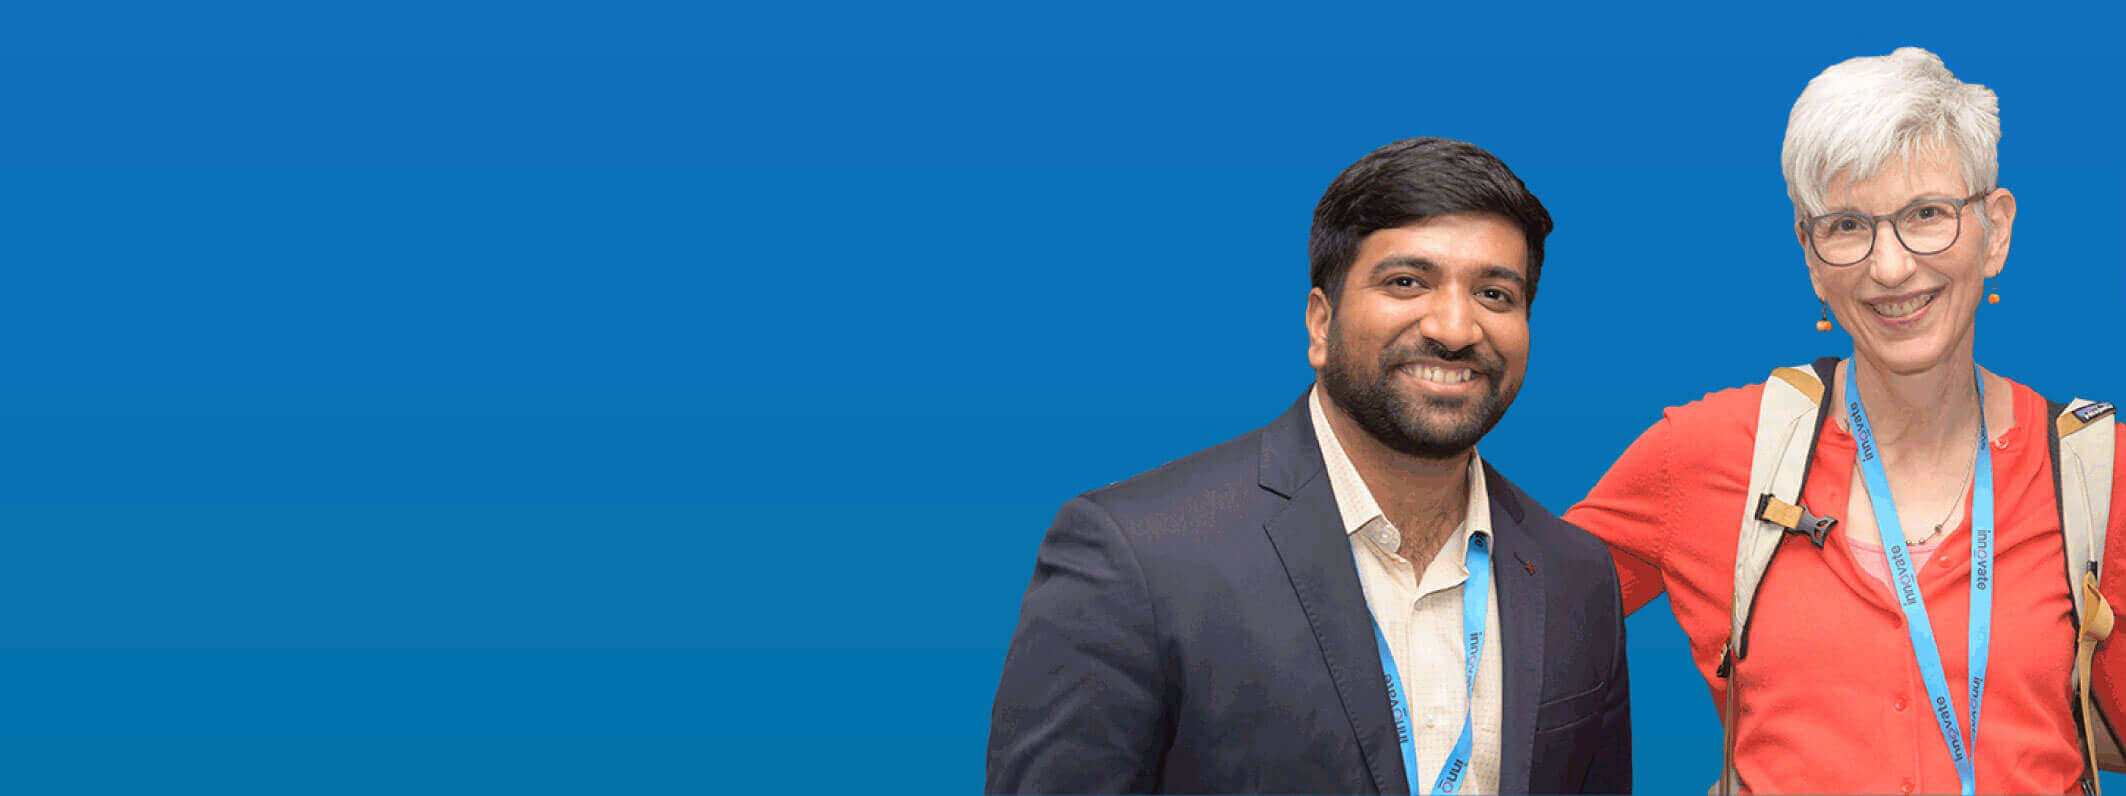
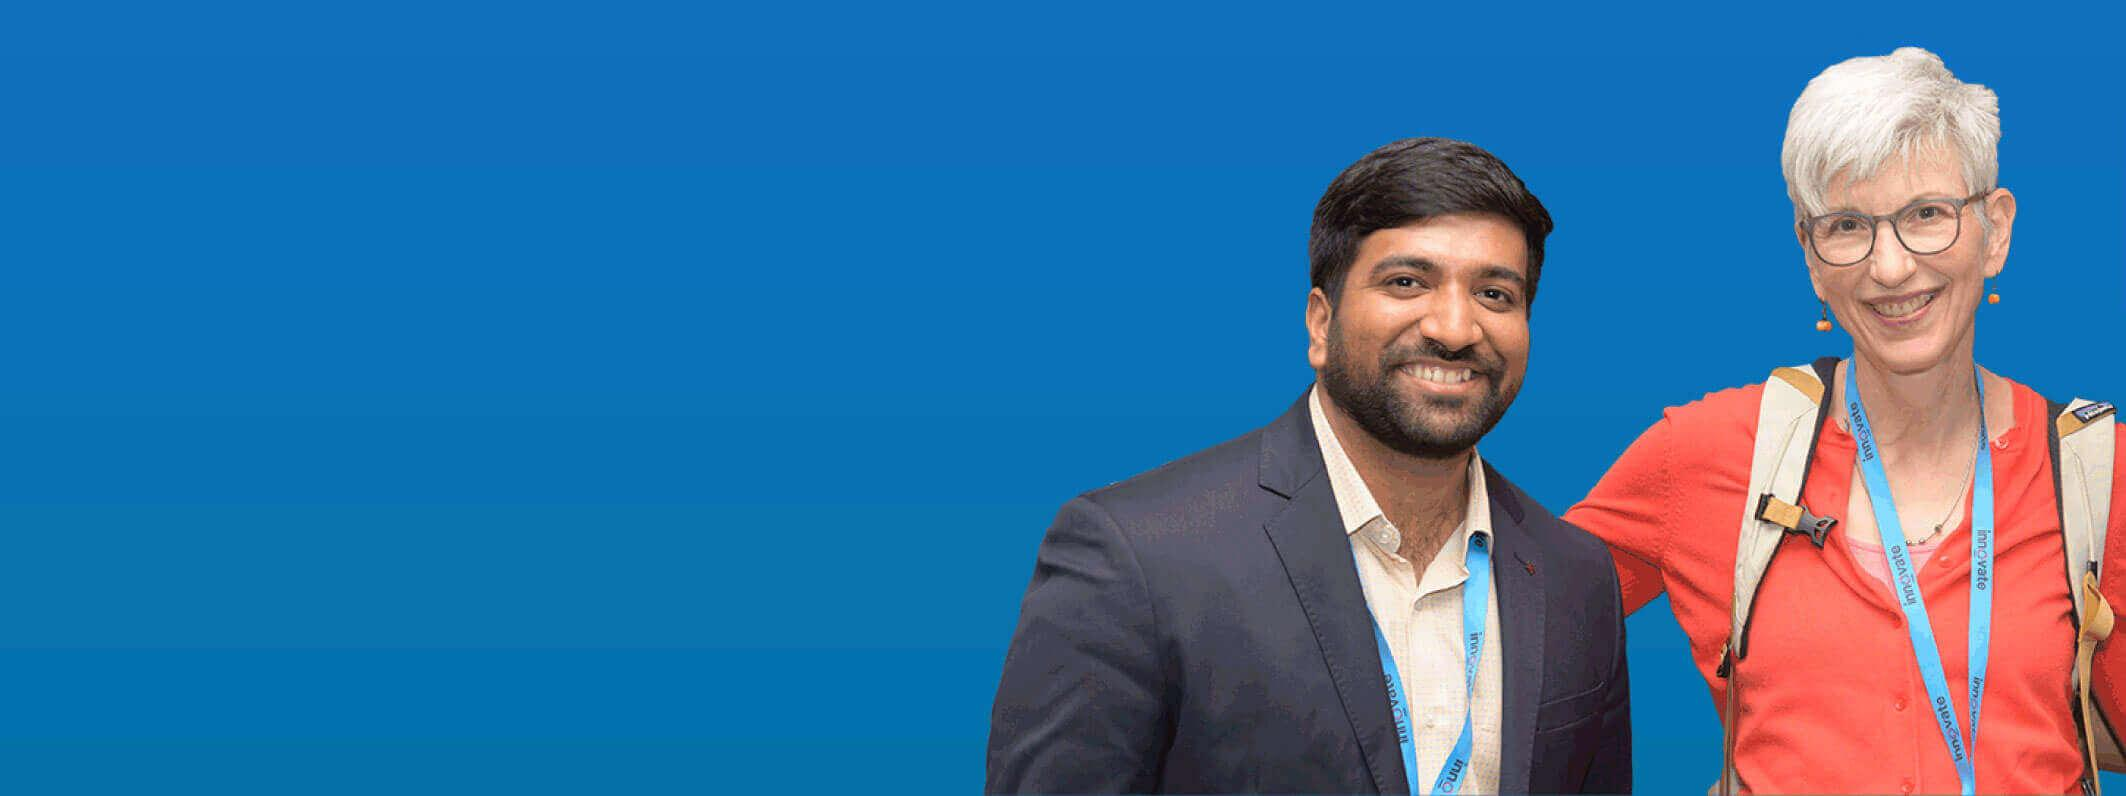
leadership

diff --git a/application/controllers/Leadership.php b/application/controllers/Leadership.php
@@ -31,7 +31,7 @@ class Leadership extends CI_Controller {
 		return array(
 			array(
 				'name'			=> 'Eric Bernstein',
-				'thumbnail'		=> base_url() .'assets/images/leadership/eric.png',
+				'thumbnail'		=> base_url() .'assets/images/leadership/eric.webp',
 				'title'			=> 'CEO',
 				'description'	=> 'Eric joined Odessa in April 2023 as CEO, stepping into the role of founder Madhu Natarajan following his transition to Executive Chairman of the Board. Eric has 20+ years of experience leading global financial services software companies and a proven track record of scaling global organizations and delivering high growth. He joined Odessa from EquityZen, where he served as COO and oversaw EquityZen’s strategy and delivery of its solutions. Prior to EquityZen, Eric held roles as President of Broadridge Asset Management Solutions, COO of eFront, COO of Sophis, and Global Head of Sales and Product Management at LineData. In addition to his long tenured career in Financial Technology, Eric ran market-making and trading at PaineWebber and Melvin Securities. He is a tested leader who deeply understands enterprise software and differentiating customer experience.',
 				'experience'	=> '14 Years in Leasing',
@@ -42,7 +42,7 @@ class Leadership extends CI_Controller {
 			),
 			array(
 				'name'			=> 'Sumit Maheshwari',
-				'thumbnail'		=> base_url() .'assets/images/leadership/sumit-maheshwari.jpg',
+				'thumbnail'		=> base_url() .'assets/images/leadership/sumit-maheshwari.webp',
 				'title'			=> 'CFO',
 				'description'	=> 'Sumit is CFO at Odessa. Since joining the organization in 2017, Sumit has led the Finance function, including controllership, business finance, and pricing. Sumit focuses on delivering Odessa’s high growth while also improving operating margin.
 				Sumit has 15+ years of experience and a proven track record in setting up global finance functions for IT and IT Enabled Services businesses. He also has deep experience in leading fundraising, M&A, and IPO transactions for global organizations.
@@ -65,7 +65,7 @@ class Leadership extends CI_Controller {
 			// ),
 			array(
 				'name'			=> 'Jason St. Laurent',
-				'thumbnail'		=> base_url() .'assets/images/leadership/JasonStLaurent_Odessa.png',
+				'thumbnail'		=> base_url() .'assets/images/leadership/JasonStLaurent_Odessa.webp',
 				'title'			=> 'COO',
 				'description'	=> 'Jason is Odessa’s COO, responsible for leading all aspects of the company’s delivery teams across system implementation and customer support. With 23 years of experience in global system implementations, technology development, and inter-disciplinary project management, Jason is focused on delivering exception customer experience, implementing best practices to realize accelerated time-to-value for customers, and developing services teams to scale. Prior to Odessa, he grew and led a variety of services portfolios across FIS. Jason holds a Bachelor’s degree in Accounting and Management Information Systems from the University of Delaware.',
 				'experience'	=> '24 years in Delivery',
@@ -75,7 +75,7 @@ class Leadership extends CI_Controller {
 			),
 			array(
 				'name'			=> 'Roopa Jayaraman',
-				'thumbnail'		=> base_url() .'assets/images/leadership/roopa-jayaraman.jpg',
+				'thumbnail'		=> base_url() .'assets/images/leadership/roopa-jayaraman.webp',
 				'title'			=> 'CTO',
 				'description'	=> 'Roopa is CTO at Odessa, responsible for product and technology leadership, spearheading cross-functional teams, to deliver platform releases to our global customers. She is also the site leader for our India hub and champions an innovative, inclusive, and learning-centric workplace.
 				Roopa brings more than two decades of experience within the enterprise software realm, with a dedicated focus on financial services for over 10 years. Roopa is a seasoned leader, with deep expertise in product roadmaps, technology innovation, and R&D strategies at a global scale.
@@ -89,7 +89,7 @@ class Leadership extends CI_Controller {
 			
 			array(
 				'name'			=> 'Jeff Lezinski',
-				'thumbnail'		=> base_url() .'assets/images/leadership/jeff-lezinski.jpg',
+				'thumbnail'		=> base_url() .'assets/images/leadership/jeff-lezinski.webp',
 				'title'			=> 'SVP, Solution Architecture',
 				'description'	=> 'Jeff is Odessa’s SVP, Solution Architecture, instrumental in architecting Odessa’s functional solutions since he joined the company in 2004. Jeff currently serves on the ELFA Accounting Committee, and serves as a liaison to various industry and regulatory bodies. Prior to Odessa, Jeff worked for PricewaterhouseCoopers, LLP where he participated in and managed various engagements from a consulting and an audit perspective for a variety of industries, including financial services, pharmaceutical, and telecommunications. He holds a Bachelor of Science in Economics from Haverford College.',
 				'experience'	=> '19 Years in Leasing',
@@ -99,7 +99,7 @@ class Leadership extends CI_Controller {
 			),
 			array(
 				'name'			=> 'Andrew Baird',
-				'thumbnail'		=> base_url() .'assets/images/leadership/andrew.png',
+				'thumbnail'		=> base_url() .'assets/images/leadership/andrew.webp',
 				'title'			=> 'SVP, NA Sales & XaaS',
 				'description'	=> 'Andrew is SVP of North American Sales & XaaS at Odessa, responsible for new customer prospecting, sales strategy and execution, contract negotiation, and go-to-market activities. In addition to his sales leadership role, Andrew oversees Odessa’s business development efforts for its subscription and XaaS solution. He has 15+ years of experience encompassing go-to-market planning, pricing, negotiation, enterprise sale execution, and delivery of diverse software systems and consulting services. Prior to Odessa, Andrew served as VP, Head of Sales in North America for numerous FIS businesses including Automotive & Equipment Finance, Commercial Lending, Cross Asset Trading & Risk, and Banking Risk, Performance, & Compliance.',
 				'experience'	=> '15 Years in Leasing',
@@ -111,7 +111,7 @@ class Leadership extends CI_Controller {
 			
 			array(
 				'name'			=> 'Campbell Clout',
-				'thumbnail'		=> base_url() .'assets/images/leadership/campbell.png',
+				'thumbnail'		=> base_url() .'assets/images/leadership/campbell.webp',
 				'title'			=> 'SVP, Business Development',
 				'description'	=> 'Campbell is SVP of Business Development at Odessa. With a background spanning over 25 years in the Asset Finance industry, his scope of responsibility involves enterprise sales and new business development in the Asia Pacific, Middle East, and Africa regions. He joined Odessa in 2022, bringing in his extensive industry knowledge and expertise. Before joining Odessa, Campbell held a leadership positions, spearheading projects including go-to-market strategy, sales, project delivery, and product management at AGC/Westpac, Rabobank, International Decision Systems, and FIS.',
 				'experience'	=> '25 Years in Leasing',
@@ -121,7 +121,7 @@ class Leadership extends CI_Controller {
 			),
 			array(
 				'name'			=> 'Alexandre Ellwood',
-				'thumbnail'		=> base_url() .'assets/images/leadership/AlexandreEllwood_Odessa.png',
+				'thumbnail'		=> base_url() .'assets/images/leadership/AlexandreEllwood_Odessa.webp',
 				'title'			=> 'SVP, Business Development',
 				'description'	=> 'Alexandre is Odessa’s SVP, Business Development, responsible for partnership strategy and business development in Europe.  With 25+ years of experience in finance, technology and professional services, Alexandre is focused on bringing Odessa innovation to new markets. Prior to joining Odessa in 2021, he managed operations at Cassiopae and Sopra Banking Software in the UK for nearly a decade. Alexandre holds a degree in Economics and Finance from Ecole Supérieure des Sciences Commerciales d’ Angers.',
 				'experience'	=> '11 Years in Leasing',
@@ -215,7 +215,7 @@ class Leadership extends CI_Controller {
 			// ),
 			array(
 				'name'			=> 'Scott Frymire',
-				'thumbnail'		=> base_url() .'assets/images/leadership/scott.png',
+				'thumbnail'		=> base_url() .'assets/images/leadership/scott.webp',
 				'title'			=> 'SVP, Corporate Marketing',
 				'description'	=> 'Scott is Odessa’s SVP of Corporate Marketing, responsible for driving  company’s solution messaging, expanding the brand presence, and building a best-in-class marketing organization. He has a diverse background with over 25 years of experience in B2B marketing. Scott has held marketing leadership roles in rapidly evolving industries like digital commerce, AI, and IT performance monitoring, shaping success stories at Unilog, Proton.ai, and ScienceLogic. Prior to joining Odessa, he founded Tidewater CMO, where he provided fractional CMO services and strategic marketing consultation to emerging B2B enterprises.  Scott’s early career was marked by significant contributions to ERP software companies, including Prophet 21 and Epicor, reflecting his unwavering commitment to driving growth and innovation.',
 				'experience'	=> '27 years in B2B software',
